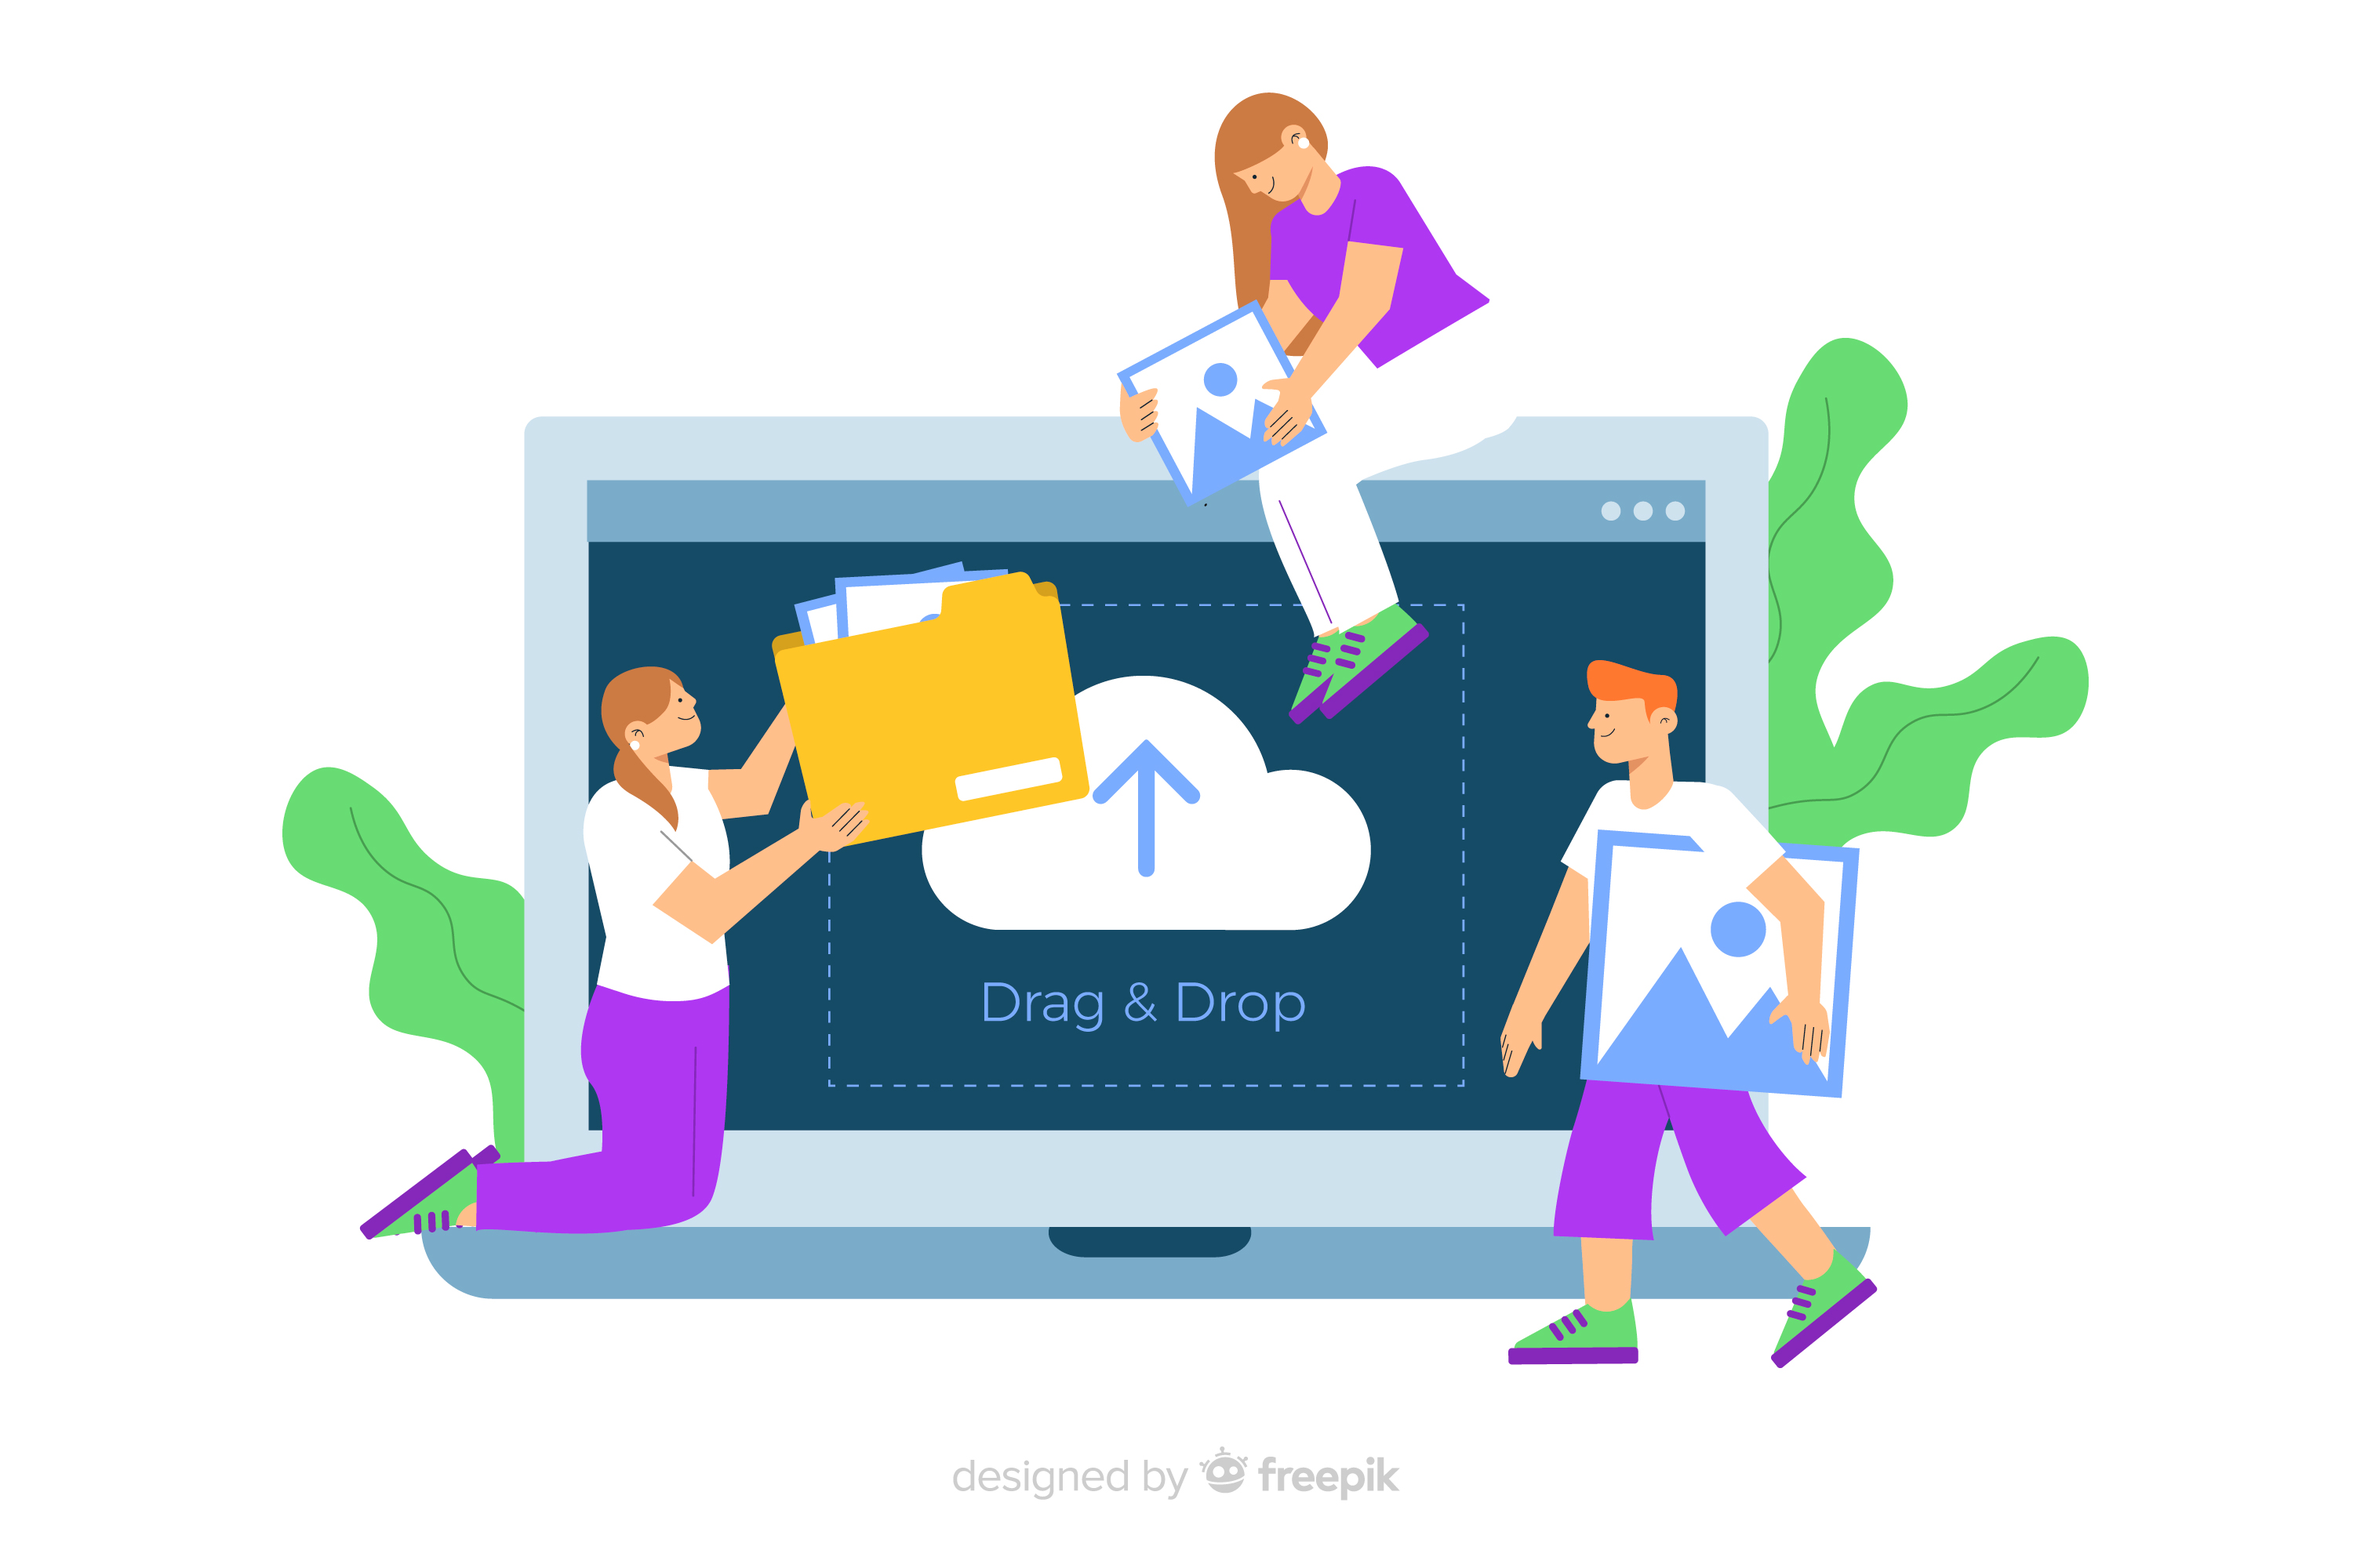
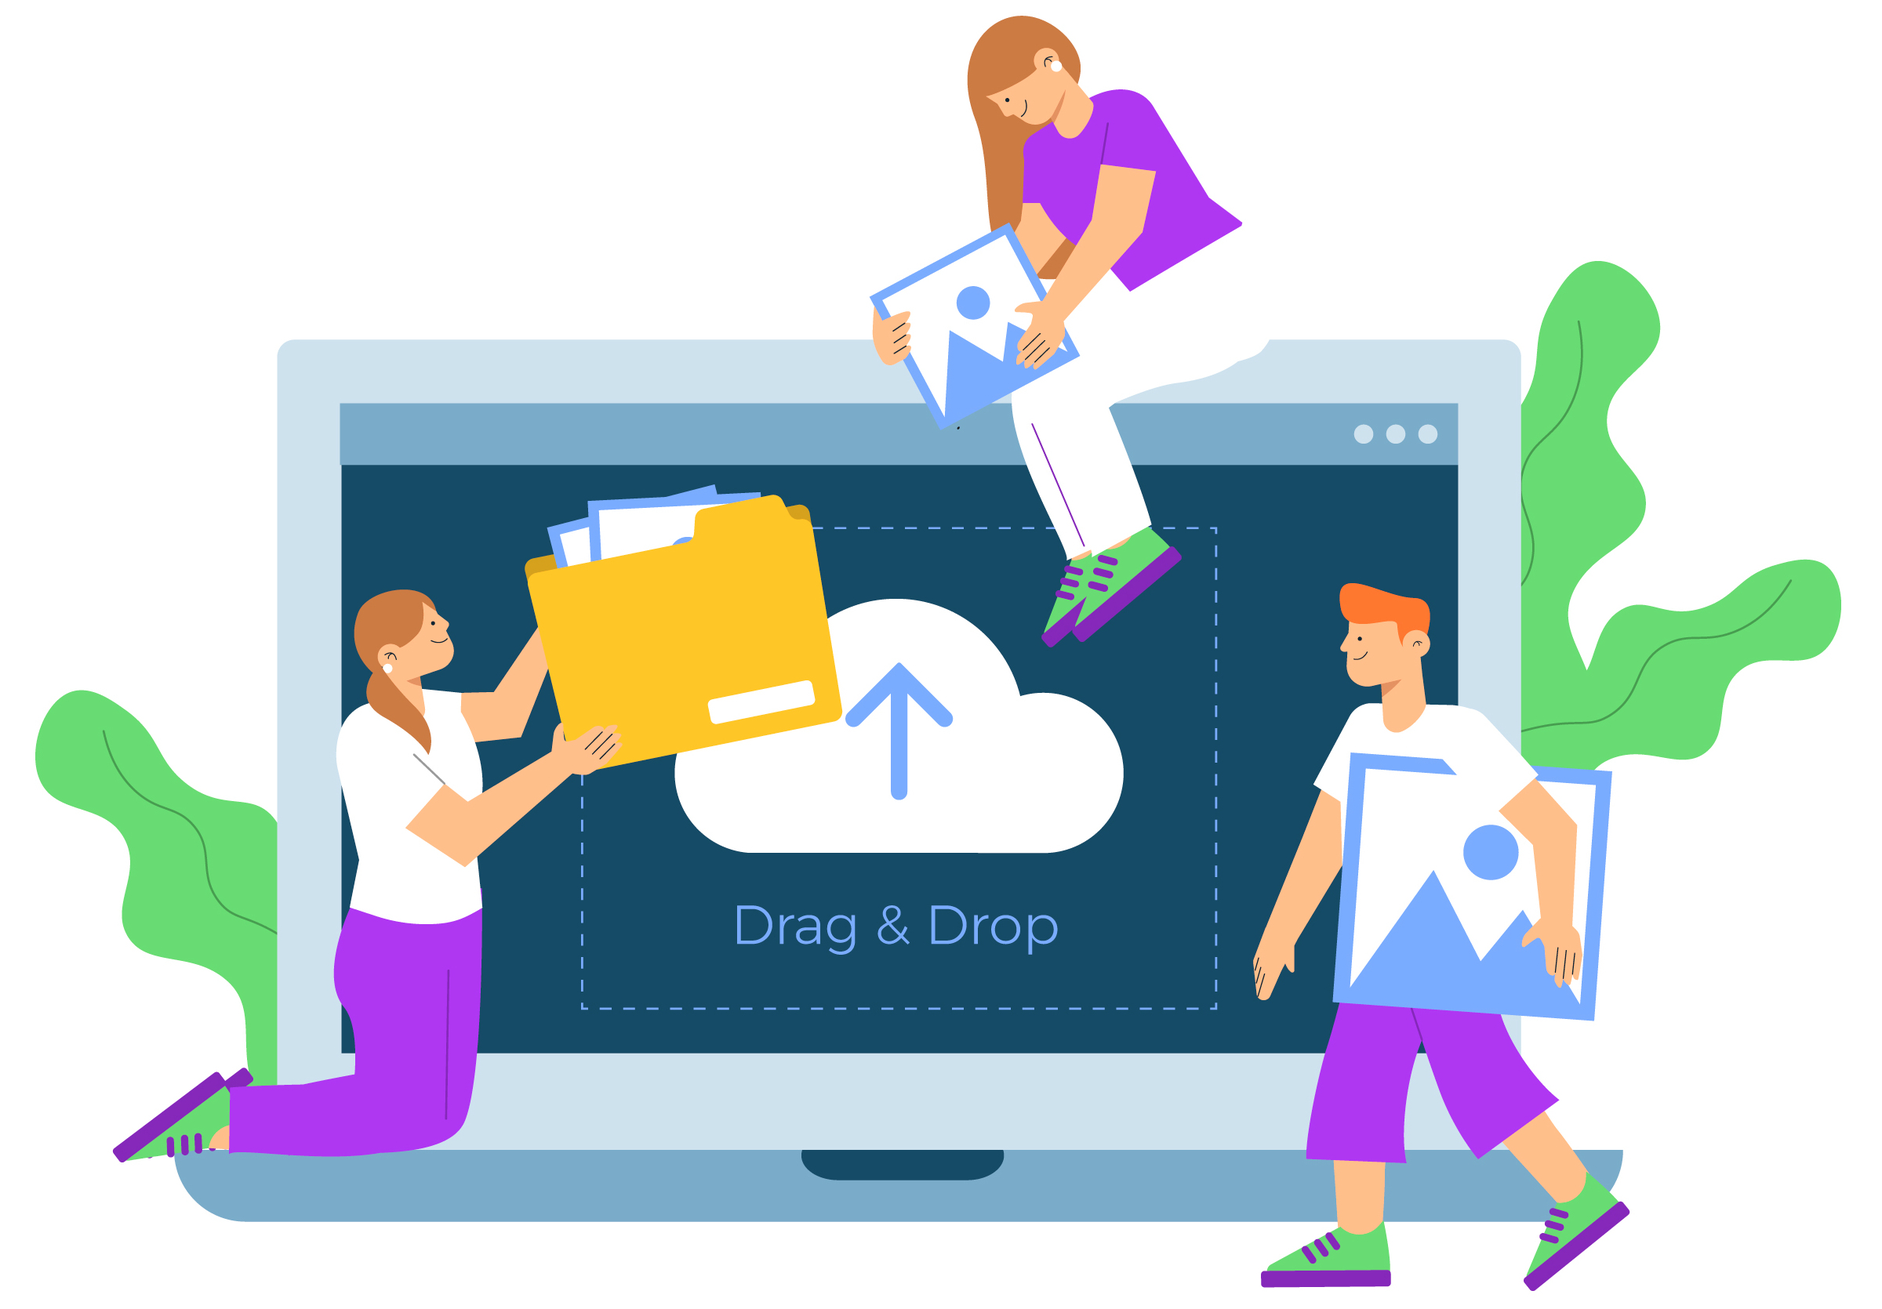
screen (home): finish home page screen, screen (authentication): finish authentication screen, screen (transfer): update transfer page screen

diff --git a/src/features/transfer/components/TransferForm.tsx b/src/features/transfer/components/TransferForm.tsx
@@ -1,8 +1,19 @@
 import React from "react";
+import { useState } from "react";
+import { motion, AnimatePresence } from "framer-motion";
 
 import FileTransferStepper from "./Stepper";
 
+import browseFile from "../../../images/browse-file.png";
+import transfer from "../../../images/transfer.png";
+
 const TransferForm: React.FC = () => {
+  const [step, setStep] = useState<number>(0);
+
+  const handleSetStep = (newStep: number) => {
+    setStep(newStep);
+  };
+
   return (
     <div className="pb-4">
       <div className="bg-white w-full h-full rounded-xl">
@@ -13,9 +24,56 @@ const TransferForm: React.FC = () => {
             </span>
           </div>
         </div>
-        <div className="max-w-1/2 pl-8 pt-6 overflow-y-auto">
-          <FileTransferStepper />
-        </div>
+        <motion.div
+          initial={{ opacity: 0, y: 100 }}
+          animate={{ opacity: 1, y: 0 }}
+          transition={{ duration: 0.75 }}
+          className="w-full pl-8 pt-6 grid grid-cols-2 gap-8"
+        >
+          <FileTransferStepper onSetStep={handleSetStep} />
+          {step === 0 && (
+            <motion.div
+              initial={{ opacity: 0, y: 50 }}
+              animate={{ opacity: 1, y: 0 }}
+              transition={{ duration: 0.5 }}
+              className="flex items-center justify-center"
+            >
+              <img
+                className="w-3/4 -translate-y-16"
+                src={browseFile}
+                alt="browse file"
+              />
+            </motion.div>
+          )}
+          {step === 1 && (
+            <motion.div
+              initial={{ opacity: 0, y: 50 }}
+              animate={{ opacity: 1, y: 0 }}
+              transition={{ duration: 0.5 }}
+              className="flex items-center justify-center"
+            >
+              <img
+                className="w-3/4 translate-y-4"
+                src={browseFile}
+                alt="browse file"
+              />
+            </motion.div>
+          )}
+          {step === 2 && (
+            <motion.div
+              initial={{ opacity: 0, y: 50 }}
+              animate={{ opacity: 1, y: 0 }}
+              transition={{ duration: 0.5 }}
+              className="flex items-center justify-center"
+            >
+              <img
+                className="w-3/4 translate-y-32"
+                src={transfer}
+                alt="browse file"
+              />
+            </motion.div>
+          )}
+        </motion.div>
       </div>
     </div>
   );

diff --git a/src/screens/Home/index.tsx b/src/screens/Home/index.tsx
@@ -3,24 +3,25 @@ import { motion } from "framer-motion";
 
 import Header from "./components/Header";
 
-import illustration from "../../images/5568482_2879879.jpg";
+import HomePage from "../../images/home-page.png";
 
 const ScreenHome: React.FC = () => {
   return (
-    <div className="bg-primary-color--tint w-screen h-screen flex flex-col">
+    <div className="bg-white w-screen h-screen flex flex-col">
       <Header />
       <main className="flex-1 h-auto bg-inherit">
-        <div className="flex justify-center pt-32">
-          <div className="max-w-7xl grid grid-cols-2 gap-24 px-8 items-center">
+        <div className="flex justify-center">
+          <div className="grid grid-cols-2-for-home px-24 pt-16 items-center">
             <motion.div
               initial={{ opacity: 0, x: -200 }}
               animate={{ opacity: 1, x: 0 }}
-              transition={{ duration: 1 }}
+              transition={{ duration: 0.75 }}
+              className="justify-self-start"
             >
-              <h1 className="text-5xl mb-8 text-333 font-bold tracking-tight pr-28">
+              <h1 className="text-5xl mb-14 text-333 font-bold tracking-tight">
                 Transfer and take your files to infinity and beyond
               </h1>
-              <p className="text-xl mb-12 text-555 pr-28">
+              <p className="text-xl mb-36 text-555">
                 TransferMe is a simple, fast and secure way to share your data
               </p>
               <Link
@@ -33,10 +34,11 @@ const ScreenHome: React.FC = () => {
             <motion.div
               initial={{ opacity: 0, y: 200 }}
               animate={{ opacity: 1, y: 0 }}
-              transition={{ duration: 1 }}
+              transition={{ duration: 0.75 }}
+              className="w-85/100 justify-self-end"
             >
               <img
-                src={illustration}
+                src={HomePage}
                 alt="Transfer file illustration"
                 className="w-full"
               />

diff --git a/src/screens/Home/components/Header.tsx b/src/screens/Home/components/Header.tsx
@@ -1,23 +1,35 @@
 import React from "react";
 import { Link } from "react-router-dom";
+import { motion } from "framer-motion";
 
-import logo from "../../../images/logo_2.png";
+import logo from "../../../images/logo_3.png";
 
 const Header = () => {
   return (
-    <header className="flex justify-between items-center bg-inherit h-24 px-12">
+    <motion.div
+      initial={{ opacity: 0, y: -50 }}
+      animate={{ opacity: 1, y: 0 }}
+      transition={{ duration: 0.75 }}
+      className="flex justify-between items-center bg-inherit py-4 px-24"
+    >
       <Link to="/" className="w-48">
         <img className="w-full" src={logo} alt="TransferMe Logo" />
       </Link>
-      <nav>
+      <nav className="flex items-center gap-8">
         <Link
-          className="text-white font-medium text-lg px-6 py-3 rounded-lg bg-primary-color hover:bg-primary-color--shade"
+          className="text-primary-color inline-block text-lg px-4 py-1 rounded-3xl bg-white hover:bg-primary-color--tint"
           to="/auth/login"
         >
-          Transfer now
+          Sign in
+        </Link>
+        <Link
+          className="text-primary-color inline-block text-lg px-4 py-1 rounded-3xl border-2 border-solid border-primary-color bg-white hover:bg-primary-color--tint"
+          to="/auth/signup"
+        >
+          Join now
         </Link>
       </nav>
-    </header>
+    </motion.div>
   );
 };
 

diff --git a/src/features/transfer/components/Stepper/index.tsx b/src/features/transfer/components/Stepper/index.tsx
@@ -22,22 +22,31 @@ const steps = [
   "Transfer",
 ];
 
-const FileTransferStepper: React.FC = () => {
+const FileTransferStepper: React.FC<{
+  onSetStep: (newStep: number) => void;
+}> = (props) => {
   const [activeStep, setActiveStep] = React.useState(0);
   const [isNext, setIsNext] = useState(false);
 
   const handleNext = () => {
-    setActiveStep((prevActiveStep) => prevActiveStep + 1);
+    setActiveStep((prevActiveStep) => {
+      props.onSetStep(prevActiveStep + 1);
+      return prevActiveStep + 1;
+    });
   };
 
   const handleBack = () => {
-    setActiveStep((prevActiveStep) => prevActiveStep - 1);
+    setActiveStep((prevActiveStep) => {
+      props.onSetStep(prevActiveStep - 1);
+      return prevActiveStep - 1;
+    });
   };
 
   const handleReset = () => {
     fileInstance.file = null;
     deviceInstance.device = "";
     setActiveStep(0);
+    props.onSetStep(0);
     setIsNext(false);
   };
 

diff --git a/src/features/transfer/components/Navigation.tsx b/src/features/transfer/components/Navigation.tsx
@@ -4,6 +4,7 @@ import { NavLink } from "react-router-dom";
 import { RiFileTransferFill } from "react-icons/ri";
 import { RiFileTransferLine } from "react-icons/ri";
 import { IconContext } from "react-icons";
+import { motion } from "framer-motion";
 
 const featsNav: { key: string; content: string }[] = [
   { key: "transfer", content: "Transfer file" },
@@ -13,7 +14,12 @@ const activeNav: string = "transfer";
 
 const Navigation = () => {
   return (
-    <div className="overflow-hidden">
+    <motion.div
+      initial={{ opacity: 0, x: -100 }}
+      animate={{ opacity: 1, x: 0 }}
+      transition={{ duration: 0.75 }}
+      className="overflow-hidden"
+    >
       <div className="w-full p-4">
         <div className="flex flex-col w-full">
           {featsNav.map((feat) => (
@@ -46,7 +52,7 @@ const Navigation = () => {
           ))}
         </div>
       </div>
-    </div>
+    </motion.div>
   );
 };
 

diff --git a/src/features/transfer/components/ListDevice.tsx b/src/features/transfer/components/ListDevice.tsx
@@ -1,12 +1,18 @@
 import React from "react";
 import { IconContext } from "react-icons";
 import { BsCircleFill } from "react-icons/bs";
+import { motion } from "framer-motion";
 
 const ListDevice: React.FC<{
   devices: { picture: string; socketId: string }[];
 }> = (props) => {
   return (
-    <div className="overflow-hidden p-4 pt-0">
+    <motion.div
+      initial={{ opacity: 0, x: 100 }}
+      animate={{ opacity: 1, x: 0 }}
+      transition={{ duration: 0.75 }}
+      className="overflow-hidden p-4 pt-0"
+    >
       <div className="w-full rounded-xl p-4">
         <div className="flex flex-col w-full gap-3">
           <span className="text-3c4043 font-medium text-lg">Devices</span>
@@ -54,7 +60,7 @@ const ListDevice: React.FC<{
           </div>
         </div>
       </div>
-    </div>
+    </motion.div>
   );
 };
 

diff --git a/src/screens/Authentication/components/Header.tsx b/src/screens/Authentication/components/Header.tsx
@@ -1,11 +1,17 @@
 import React from "react";
 import { Link } from "react-router-dom";
+import { motion } from "framer-motion";
 
 import logo from "../../../images/logo_3.png";
 
 const Header = () => {
   return (
-    <header className="flex justify-between items-center bg-inherit py-4 px-24">
+    <motion.div
+      initial={{ opacity: 0, y: -50 }}
+      animate={{ opacity: 1, y: 0 }}
+      transition={{ duration: 0.75 }}
+      className="flex justify-between items-center bg-inherit py-4 px-24"
+    >
       <Link to="/" className="w-48">
         <img className="w-full" src={logo} alt="TransferMe Logo" />
       </Link>
@@ -23,7 +29,7 @@ const Header = () => {
           Join now
         </Link>
       </nav>
-    </header>
+    </motion.div>
   );
 };
 

diff --git a/tailwind.config.js b/tailwind.config.js
@@ -29,6 +29,7 @@ module.exports = {
       gridTemplateColumns: {
         "3-for-transferLayout": "250px auto 300px",
         "2-for-header": "250px auto",
+        "2-for-home": "1fr 2fr",
       },
       gridTemplateRows: {
         "2-for-transferLayout": "auto 1fr",
@@ -37,6 +38,11 @@ module.exports = {
         "user-nav":
           "0 4px 8px 3px rgba(0, 0, 0, .15), 0 1px 3px rgba(0, 0, 0, .3)",
         btn: "0px 3px 1px -2px rgba(0, 0, 0, 0.2), 0px 2px 2px 0px rgba(0, 0, 0, 0.14), 0px 1px 5px 0px rgba(0, 0, 0, 0.12)",
+      },
+      width: {
+        "1/2": "50%",
+        "85/100": "85%",
+        "65/100": "65%",
       },
       maxWidth: {
         "1/2": "50%",

diff --git a/src/features/transfer/components/Header.tsx b/src/features/transfer/components/Header.tsx
@@ -21,7 +21,12 @@ const Header: React.FC<{
   onHandleShowUserNav: () => void;
 }> = (props) => {
   return (
-    <div className="w-screen col-span-full">
+    <motion.div
+      initial={{ opacity: 0, y: -50 }}
+      animate={{ opacity: 1, y: 0 }}
+      transition={{ duration: 0.75 }}
+      className="w-screen col-span-full"
+    >
       <div className="w-full grid grid-cols-3-for-transferLayout items-center">
         <div className="py-4 px-2">
           <div className="w-36 pl-5 ">
@@ -95,7 +100,7 @@ const Header: React.FC<{
           </div>
         </motion.div>
       </div>
-    </div>
+    </motion.div>
   );
 };
 
